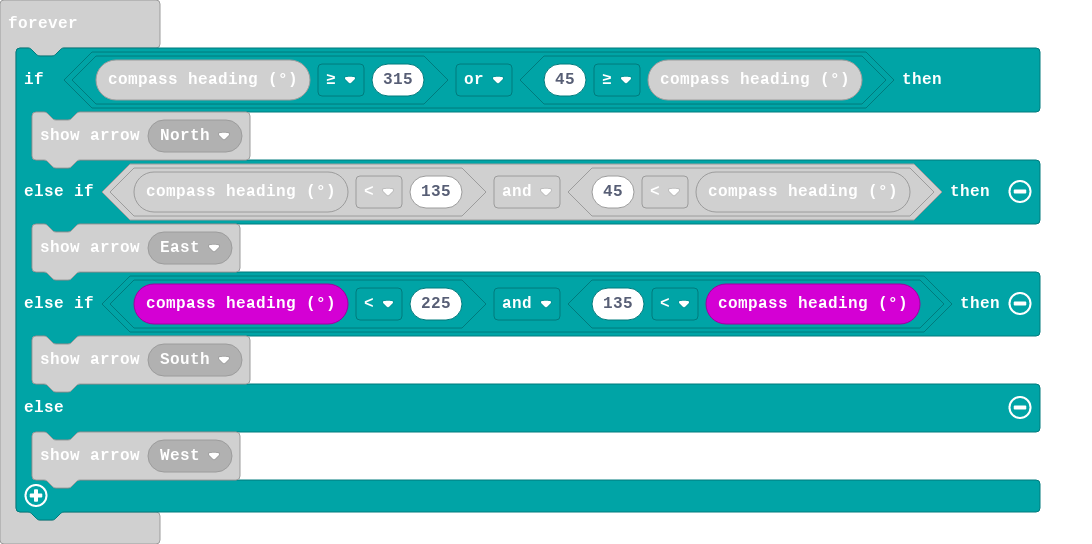
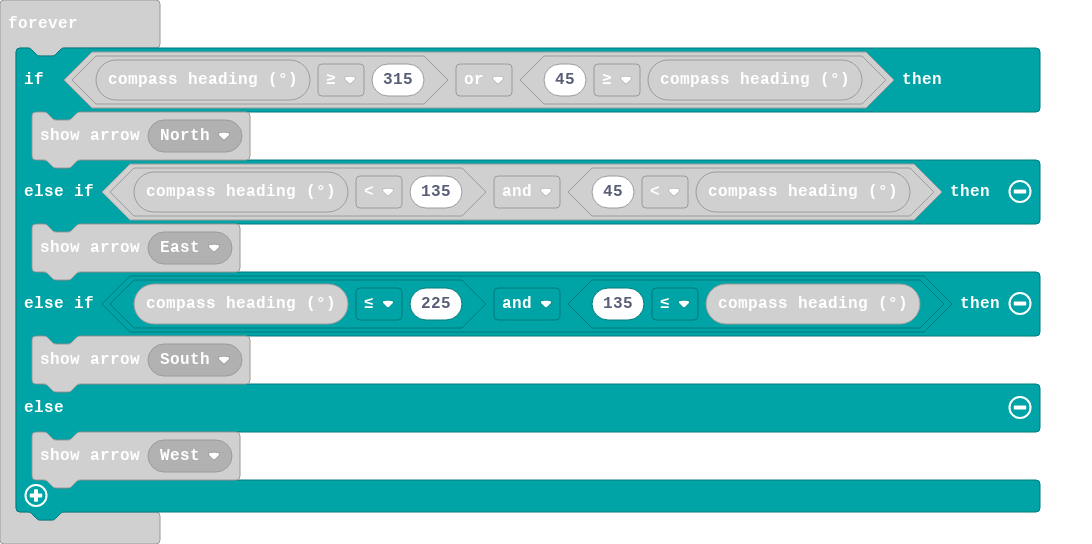
Update main.blocks, main.ts

Changed region(s): [[0.0623, 0.0938, 0.8407, 0.2188], [0.6227, 0.5, 0.8407, 0.625], [0.1245, 0.5, 0.3425, 0.625]]

diff --git a/main.ts b/main.ts
@@ -3,7 +3,7 @@ basic.forever(function () {
         basic.showArrow(ArrowNames.North)
     } else if (input.compassHeading() < 135 && 45 < input.compassHeading()) {
         basic.showArrow(ArrowNames.East)
-    } else if (input.compassHeading() < 225 && 135 < input.compassHeading()) {
+    } else if (input.compassHeading() <= 225 && 135 <= input.compassHeading()) {
         basic.showArrow(ArrowNames.South)
     } else {
         basic.showArrow(ArrowNames.West)
